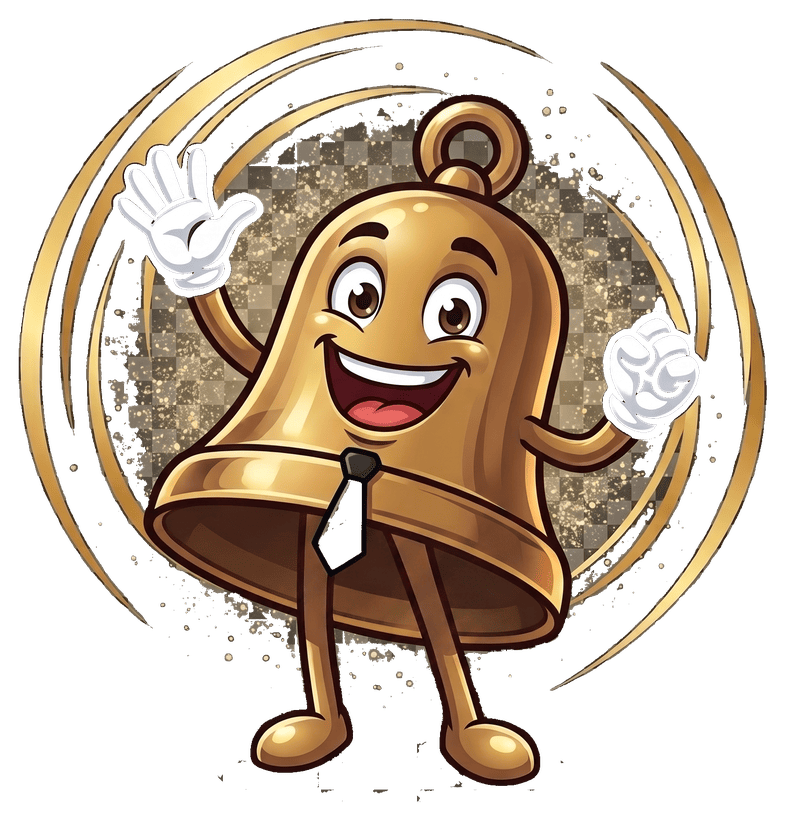
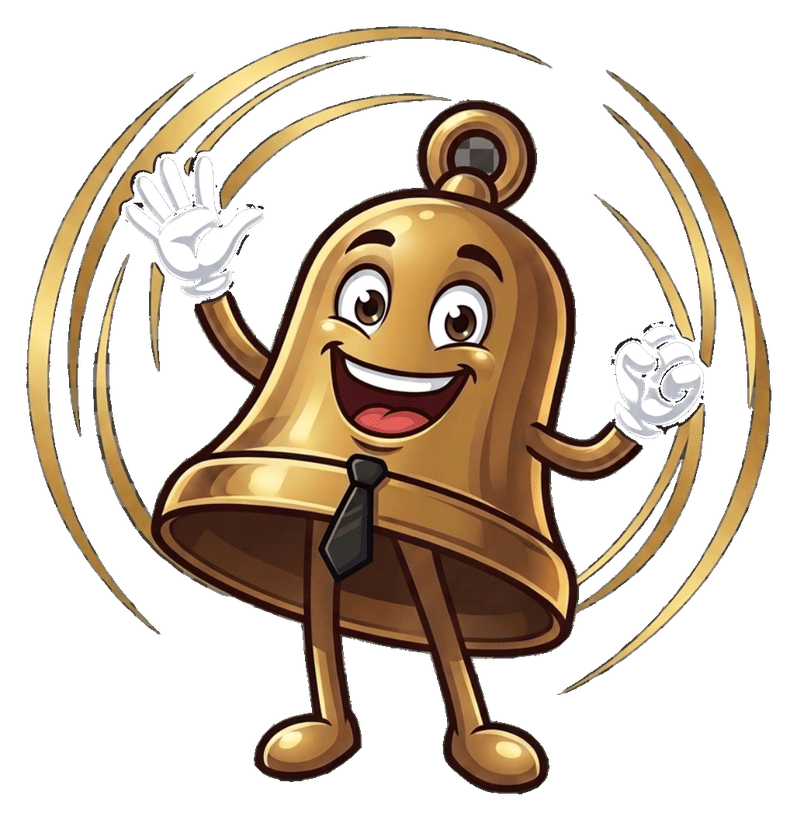
Add files via upload

diff --git a/public/offerbell-landing.html b/public/offerbell-landing.html
@@ -790,7 +790,7 @@ nav#nav.scrolled .n-cta{background:var(--black);color:#ffffff;border-color:var(-
 <section class="hero reveal">
   <div class="hero-art" aria-hidden="true"><img src="/bell-hero.png" alt=""></div>
   <div class="hero-inner2">
-    <h1>Better prep<br>Better interviews<br><em>Better offers</em></h1>
+    <h1>Better prep.<br>Better interviews.<br><em>Better offers.</em></h1>
     <p class="hero-sub2">Land the offer. Ring the bell.</p>
     <a href="/signup" class="hero-cta2">Try For Free Today &rarr;</a>
   </div>